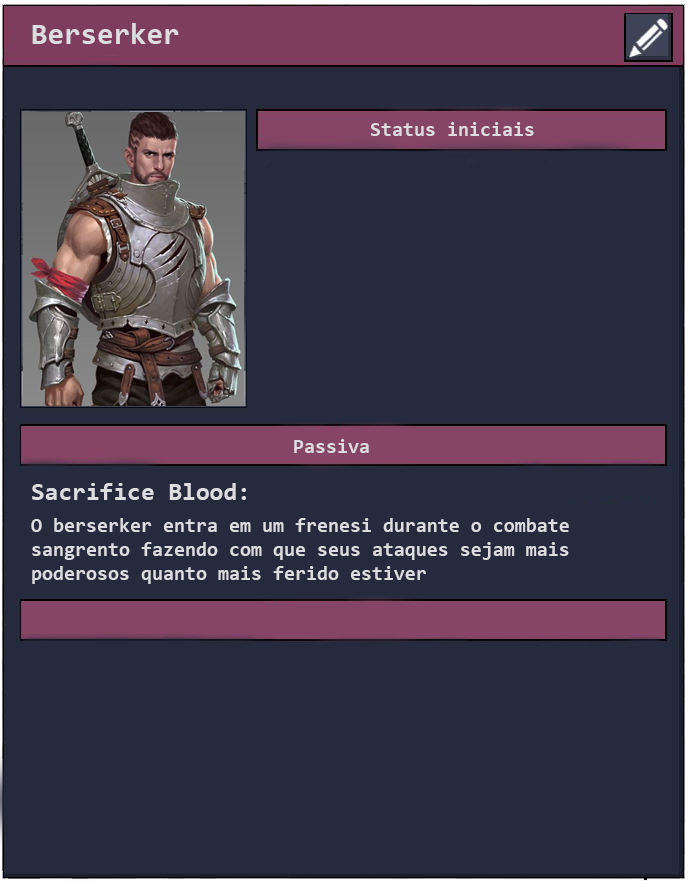
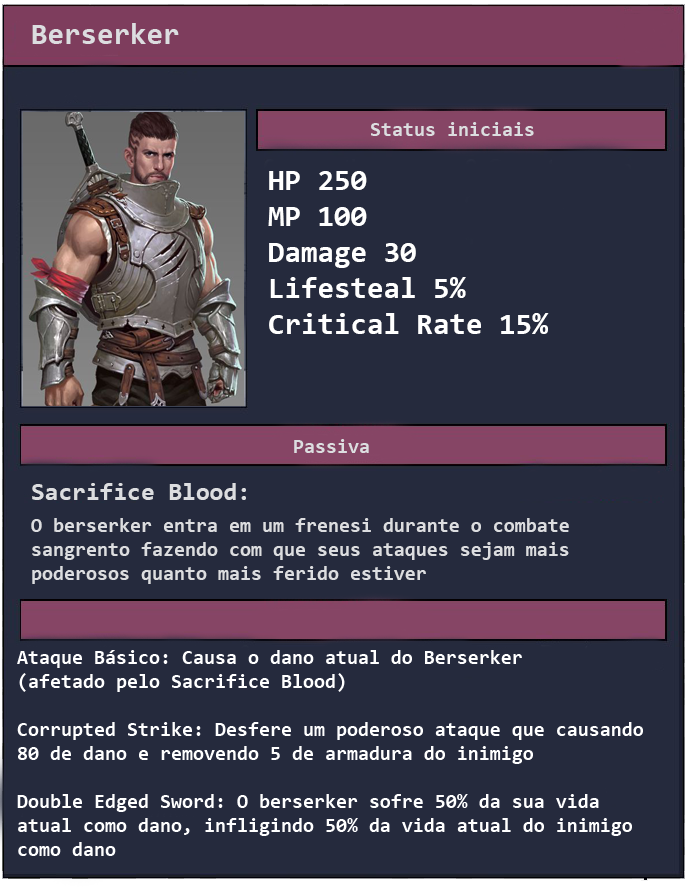
EMPURRO EM AURICETE

diff --git a/RPGlib/Characters/Dicer.cs b/RPGlib/Characters/Dicer.cs
@@ -23,7 +23,7 @@ namespace RPGlib.Characters
             this.CriticRate = 10;
             this.EvasionRate = 0;
             this.CurrentArmor = 10;
-            this.Damage = 10;
+            this.Damage = 30;
             this.Lifesteal = 0;
 
             Attacking = new BitmapImage(new Uri(@"ms-appx:///Assets/AttackGifs/datk.gif"));
@@ -94,11 +94,11 @@ namespace RPGlib.Characters
             return damageTurn;
         }
 
-        //SKill consome 20 de vida para ser castada
+        //SKill consome 50 de vida para ser castada
         public override int Skill2()
         {
-            int damageTurn = 100 * Passive();
-            this.CurrentHP -= 50;
+            int damageTurn = 70 * Passive();
+            this.CurrentHP -= 30;
 
             return damageTurn;
         }

diff --git a/RPGlib/Characters/Berserker.cs b/RPGlib/Characters/Berserker.cs
@@ -19,11 +19,11 @@ namespace RPGlib.Characters
             this.CurrentMana = 100;
             this.CurrentXP = 0;
             this.Level = 0;
-            this.CriticRate = 0;
+            this.CriticRate = 15;
             this.EvasionRate = 5;
             this.CurrentArmor = 20;
             this.Damage = 30;
-            this.Lifesteal = 0;
+            this.Lifesteal = 5;
 
             Attacking = new BitmapImage(new Uri(@"ms-appx:///Assets/AttackGifs/batk.gif"));
             Dying = new BitmapImage(new Uri(@"ms-appx:///Assets/DyingGifs/b_dy.gif"));

diff --git a/RPG LP2/Controller/BattleController.cs b/RPG LP2/Controller/BattleController.cs
@@ -111,7 +111,8 @@ namespace RPG_LP2
 
                         if (person.ManaCountDown(100))
                         {
-                            
+
+                            mob.currentArmor -= 5;
                             dmg = CheckArmorDamage(person.Skill1() - mob.currentArmor);
                             DealMobDamage(dmg, mob);
 
